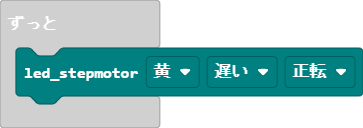
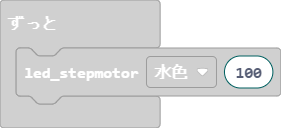
ステッピングモーターの速度制御を追加

diff --git a/custom.ts b/custom.ts
@@ -257,6 +257,7 @@ namespace custom {
         if (s > 0) {
             Step = 128           
         }else{
+            s = -s
             Step = 16
         }
  
@@ -294,13 +295,12 @@ namespace custom {
                         Step = 0
                     }
                 }
-                if (s == step_speed.low) {
-                    basic.pause(200)
-                } else if (s == step_speed.mid) {
-                    basic.pause(100)
-                } else {
-                    basic.pause(0)
-                }
+            if(s != 0){
+                basic.pause(1000 / s)
+            }else{
+                basic.pause(0)
+            }
+          
         }
     }
     //% block

diff --git a/main.ts b/main.ts
@@ -32,5 +32,5 @@ let num = [
 0
 ]
 basic.forever(function () {
-    custom.led_stepmotor(color_type.cyan, 0)
+    custom.led_stepmotor(color_type.cyan, 100)
 })
